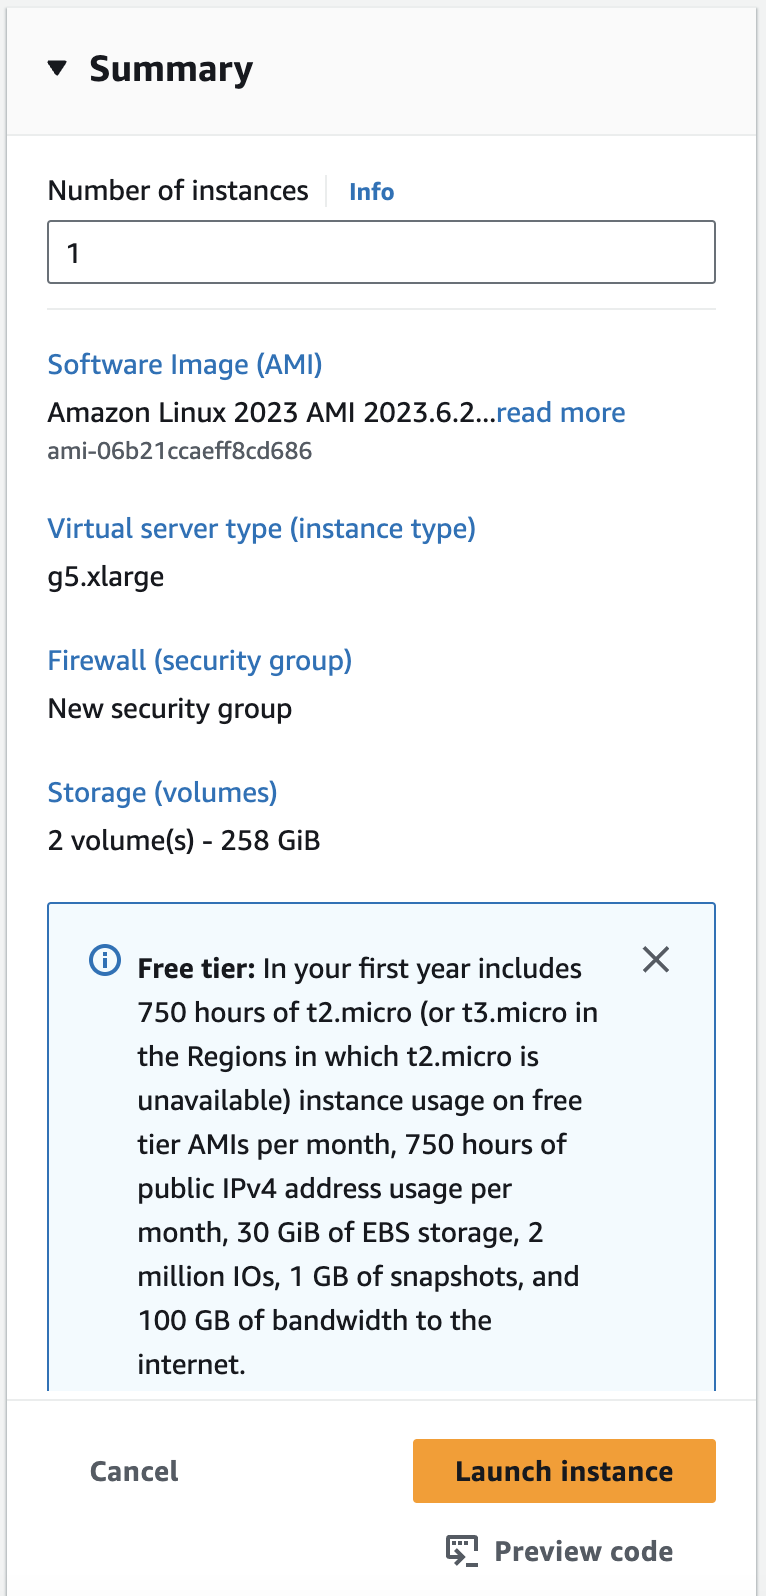
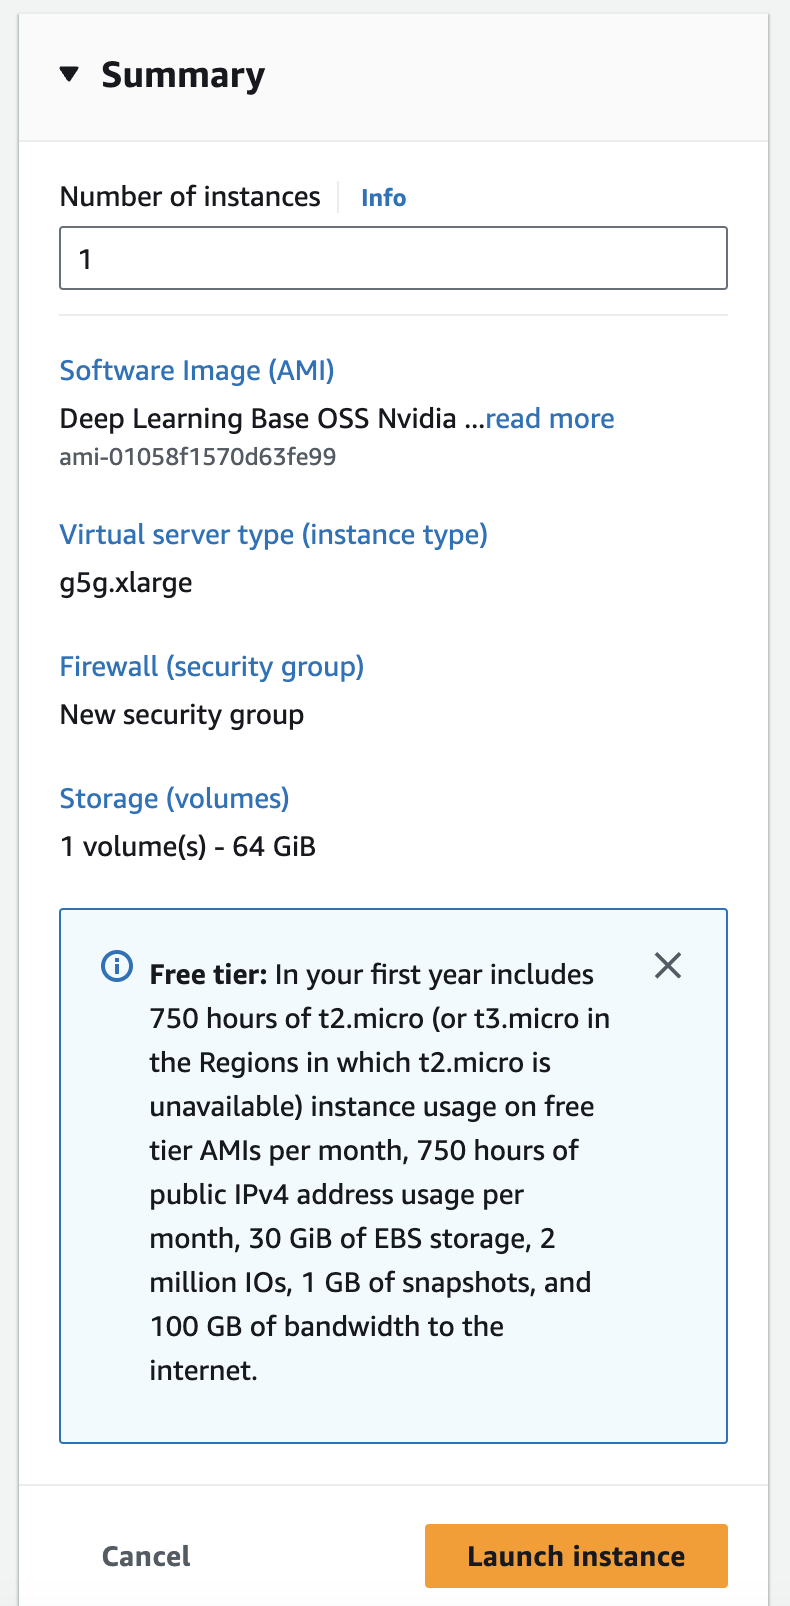
update

diff --git a/cloud_readme.md b/cloud_readme.md
@@ -16,8 +16,11 @@ The default AWS account level quota for GPU instances is 0, so many of you will 
 2. Now you're ready to create a VM instance. Click on the button that says `Launch instance`.
 ![Launch instance](handout/launch-instance.png?raw=true)
 
-3. Choose the `Ubuntu Server 24.04 LTS (HVM), SSD Volume Type` AMI:
-![AMI](handout/AMI.png?raw=true)
+3. Click on `Browse more AMIs` AMI.
+![Search AMI](handout/search-ami.png)
+
+4. Search for `Deep Learning Base OSS Nvidia Driver GPU` and make sure to select `64-bit (Arm)`.
+![alt text](handout/select-ami.png)
 
 4. Choose the `g5.xlarge` instance type.
 ![Instance type](handout/instance-type.png?raw=true)
@@ -46,37 +49,19 @@ ssh -i path/to/key_name.pem ubuntu@<public_dns_name>
 
 ## Setting up the VM environment ##
 
-1. You will need to run the install.sh script in the asst3 repo to install CUDA. Clone the assignment repo to your instance using the following command.
+1. CUDA should be by default installed. You can double check the cuda version using `nvidia-smi` and see an output similar to the following. The CUDA version should be **12.4** and the GPU we are using is **NVIDIA T4G**.
 ~~~~
-git clone https://github.com/stanford-cs149/asst3.git
-~~~~
-
-2. Add execute permissions, and run the installation script. If you encounter any issues, please make a post on Ed!
-~~~~
-chmod +x ./asst3/install.sh
-./asst3/install.sh
-~~~~
-
-3. Restart the VM to boot the driver
-~~~~
-sudo reboot
-~~~~
-
-4. After running the script, CUDA should be installed. You can double check the cuda version using `nvidia-smi`, which should be **12.6**. The GPU we are using is **Tesla A10G**. 
-
-(If the command errors, try restarting the terminal/restarting the instance, and if error persists, make an Ed post and CAs will help!)
-~~~~
-ubuntu@ip-172-31-72-234:~$ nvidia-smi
-Thu Oct 24 20:56:22 2024       
+ubuntu@ip-172-31-32-141:~$ nvidia-smi
+Thu Oct 24 21:34:13 2024       
 +-----------------------------------------------------------------------------------------+
-| NVIDIA-SMI 560.35.03              Driver Version: 560.35.03      CUDA Version: 12.6     |
+| NVIDIA-SMI 550.127.05             Driver Version: 550.127.05     CUDA Version: 12.4     |
 |-----------------------------------------+------------------------+----------------------+
 | GPU  Name                 Persistence-M | Bus-Id          Disp.A | Volatile Uncorr. ECC |
 | Fan  Temp   Perf          Pwr:Usage/Cap |           Memory-Usage | GPU-Util  Compute M. |
 |                                         |                        |               MIG M. |
 |=========================================+========================+======================|
-|   0  NVIDIA A10G                    Off |   00000000:00:1E.0 Off |                    0 |
-|  0%   24C    P8              8W /  300W |       1MiB /  23028MiB |      0%      Default |
+|   0  NVIDIA T4G                     On  |   00000000:00:1F.0 Off |                    0 |
+| N/A   49C    P8             10W /   70W |       1MiB /  15360MiB |      0%      Default |
 |                                         |                        |                  N/A |
 +-----------------------------------------+------------------------+----------------------+
                                                                                          
@@ -89,9 +74,21 @@ Thu Oct 24 20:56:22 2024
 +-----------------------------------------------------------------------------------------+
 ~~~~
 
+2. Run the following command to install the FreeGlut library required for the assignment.
+~~~~
+sudo apt-get update && sudo apt-get install freeglut3-dev -y
+~~~~
+
+3. Now you can clone the asst3 git repository and start developing.
+~~~~
+git clone https://github.com/stanford-cs149/asst3.git
+~~~~
+
 ## Fetching your code from AWS ##
 
-Once you've completed your assignment, you can fetch your code using `scp` command like following in your local machine:
+We recommend that you create a private git repository and develop your assignment in there. It reduces the risk of losing your code and helps you keep track of old versions.
+
+Alternatively, you can also use `scp` command like following in your local machine to fetch code from a remote machine.
 ~~~~
 scp -i <path-to-your-private-key> lightsail-user@<instance-IP-addr>:/path/to/file /path/to/local_file
 ~~~~
